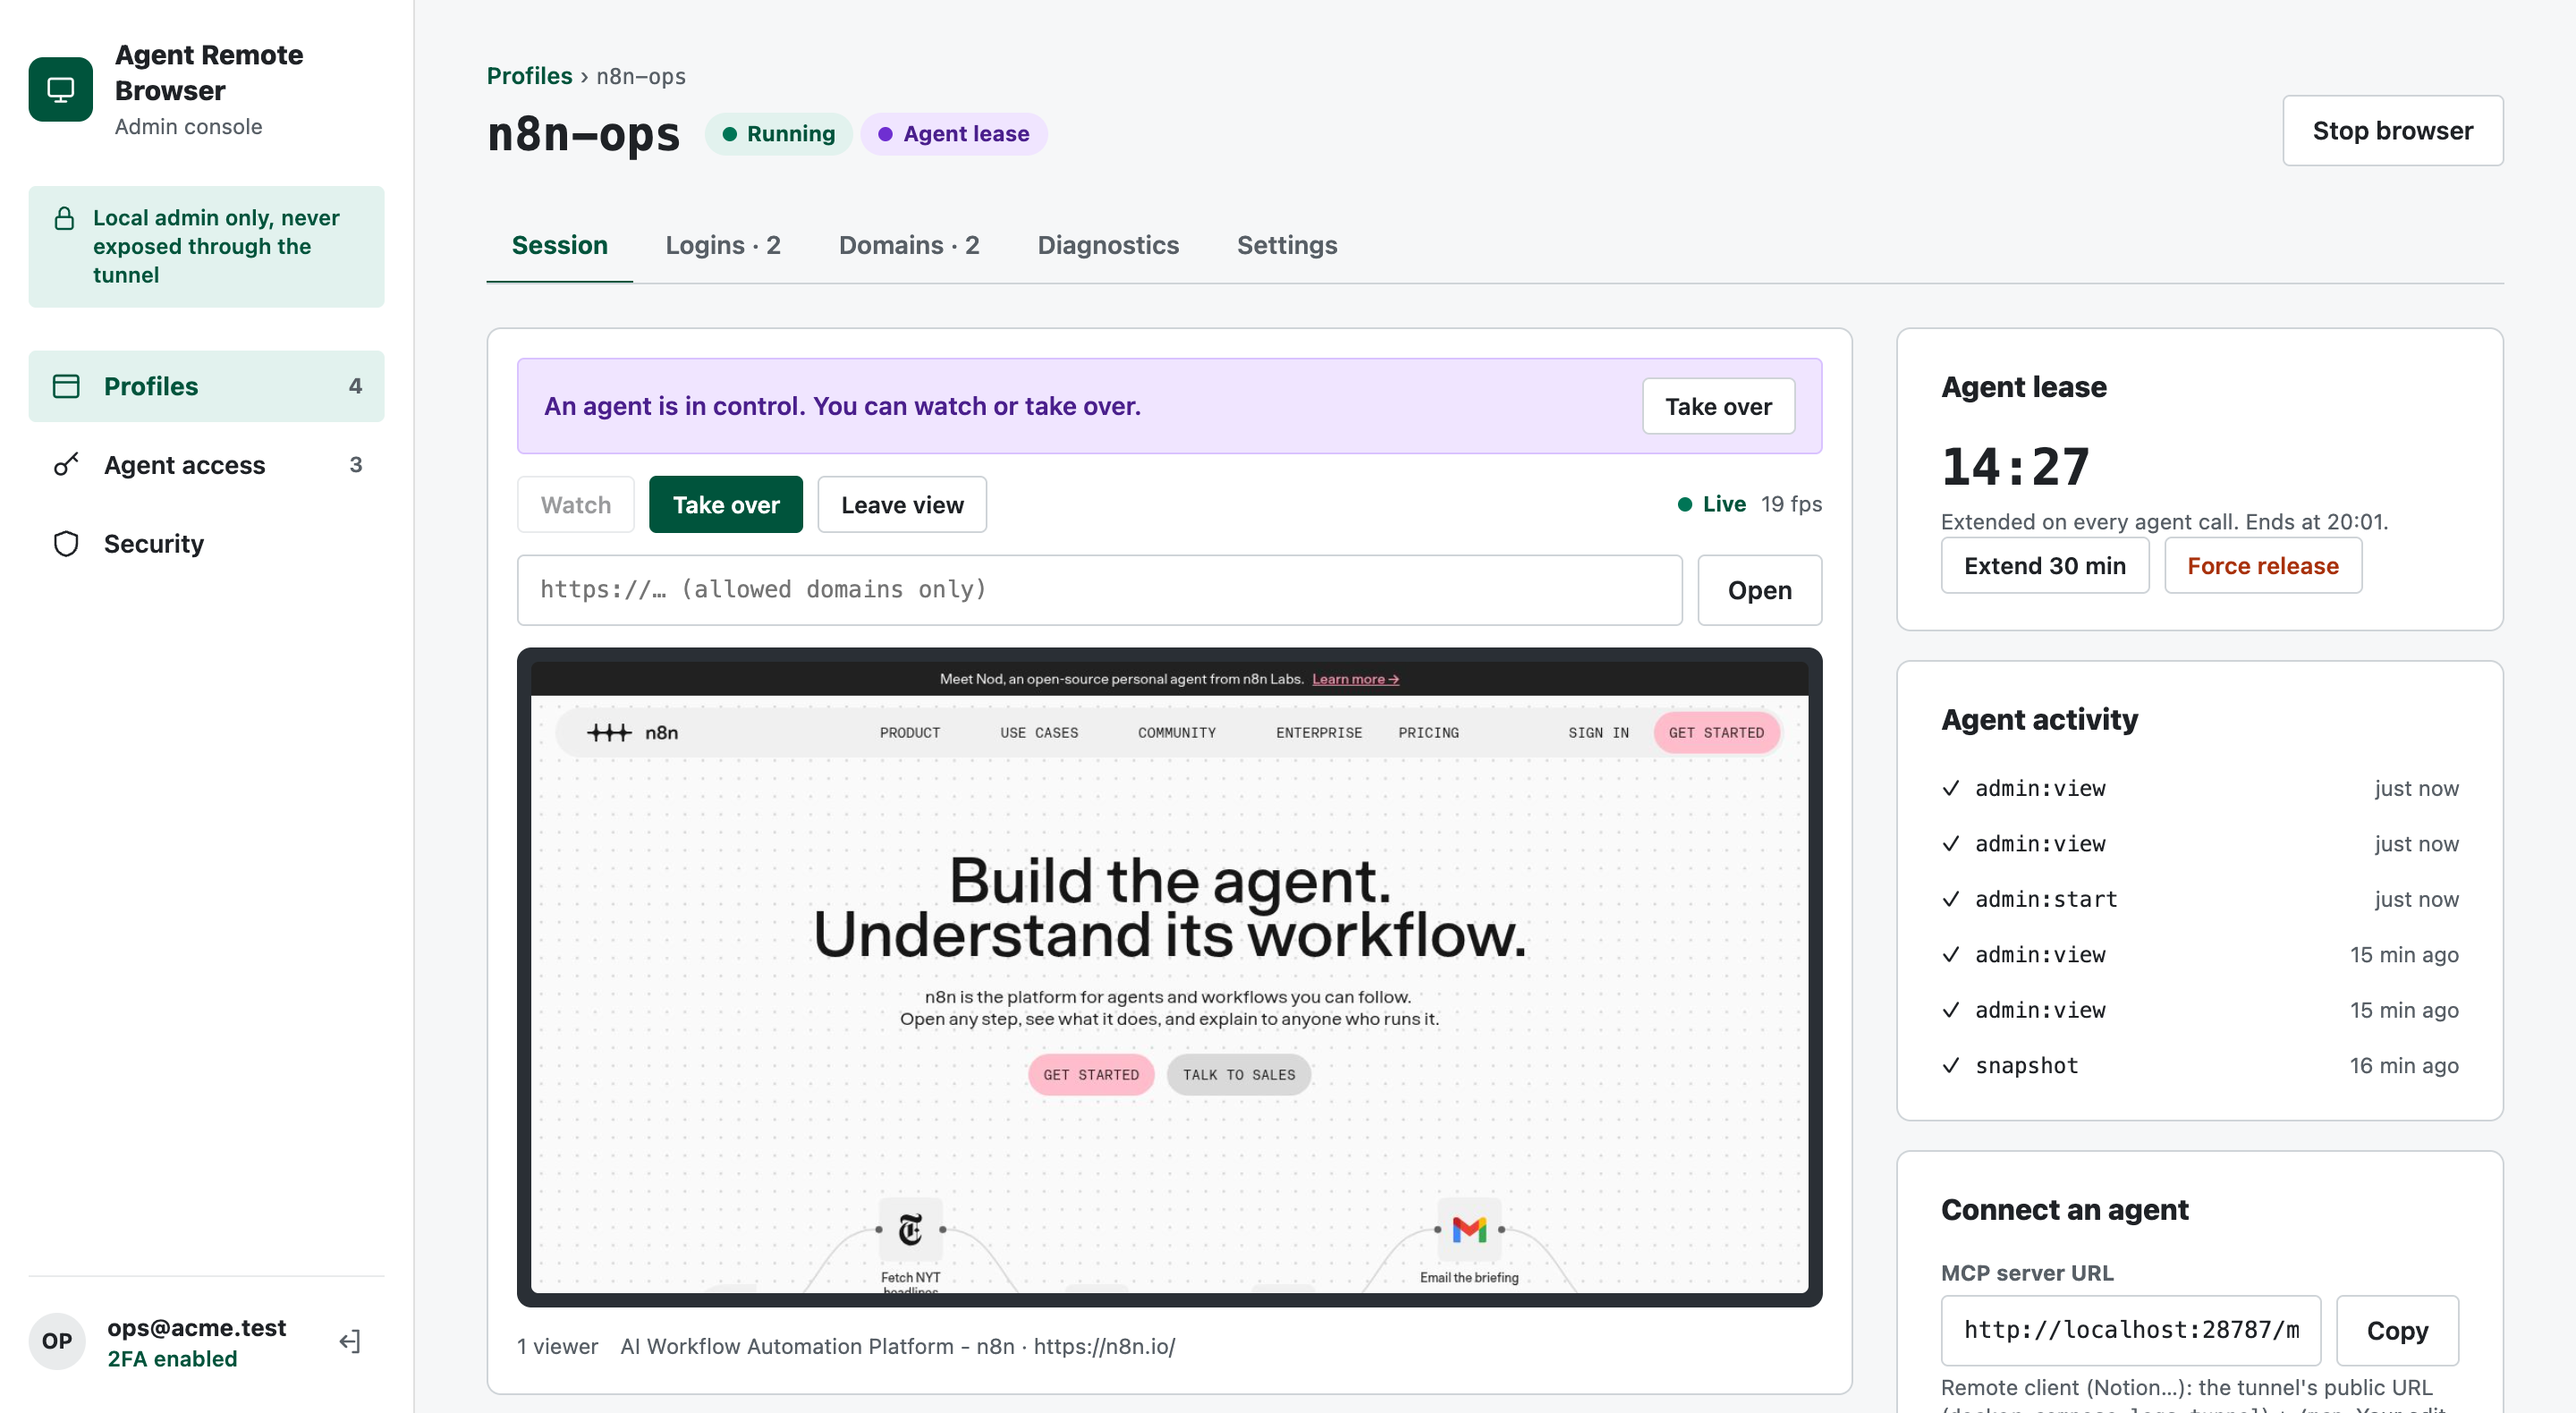
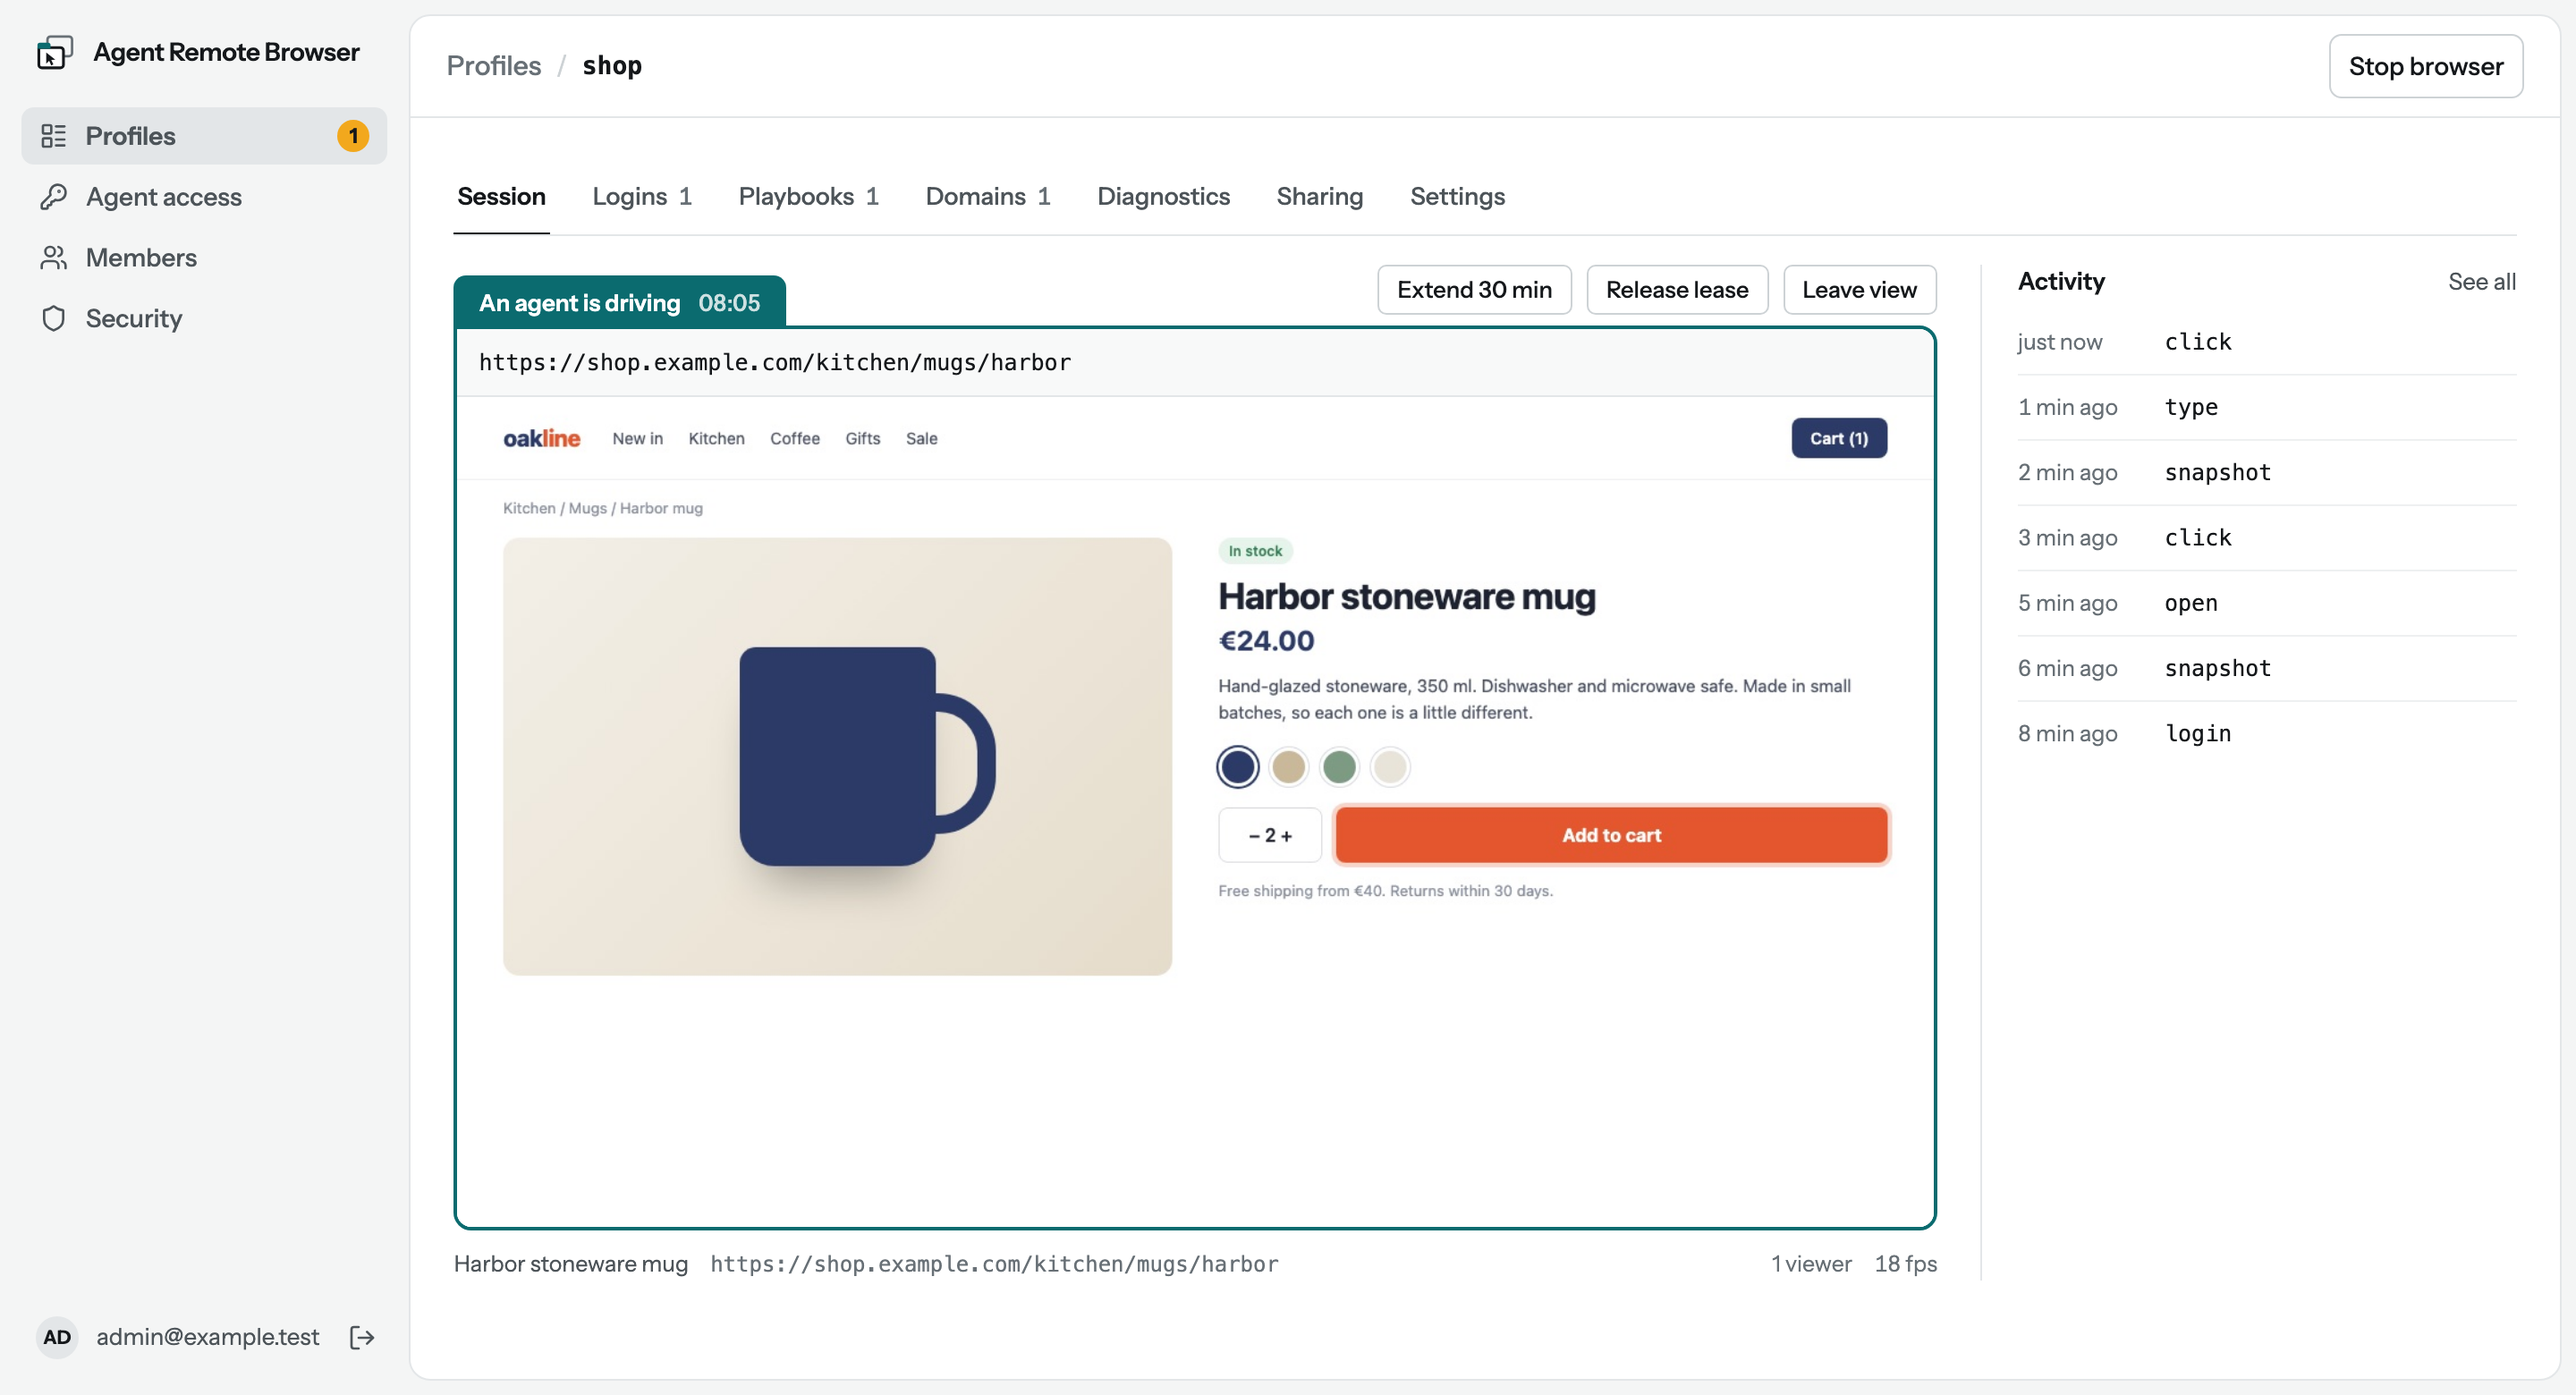
README screenshot: redesigned admin UI (#47)
An agent drives the shop profile: the live view sits in the teal control
tab with the lease time left, and the activity is listed on the right.
Synthetic data only: the admin UI test fixture and a made-up shop page.

diff --git a/README.md b/README.md
@@ -1,6 +1,6 @@
 # agent-remote-browser
 
-![Admin UI: an agent drives the n8n-ops profile, live view of n8n.io, lease and activity on the right](docs/admin.png)
+![Admin UI: an agent drives the shop profile, live view of a shop page in a teal frame with the time left on its lease, activity on the right](docs/admin.png)
 
 **Give an AI agent a real browser, without giving it your machine or your passwords.**
 
